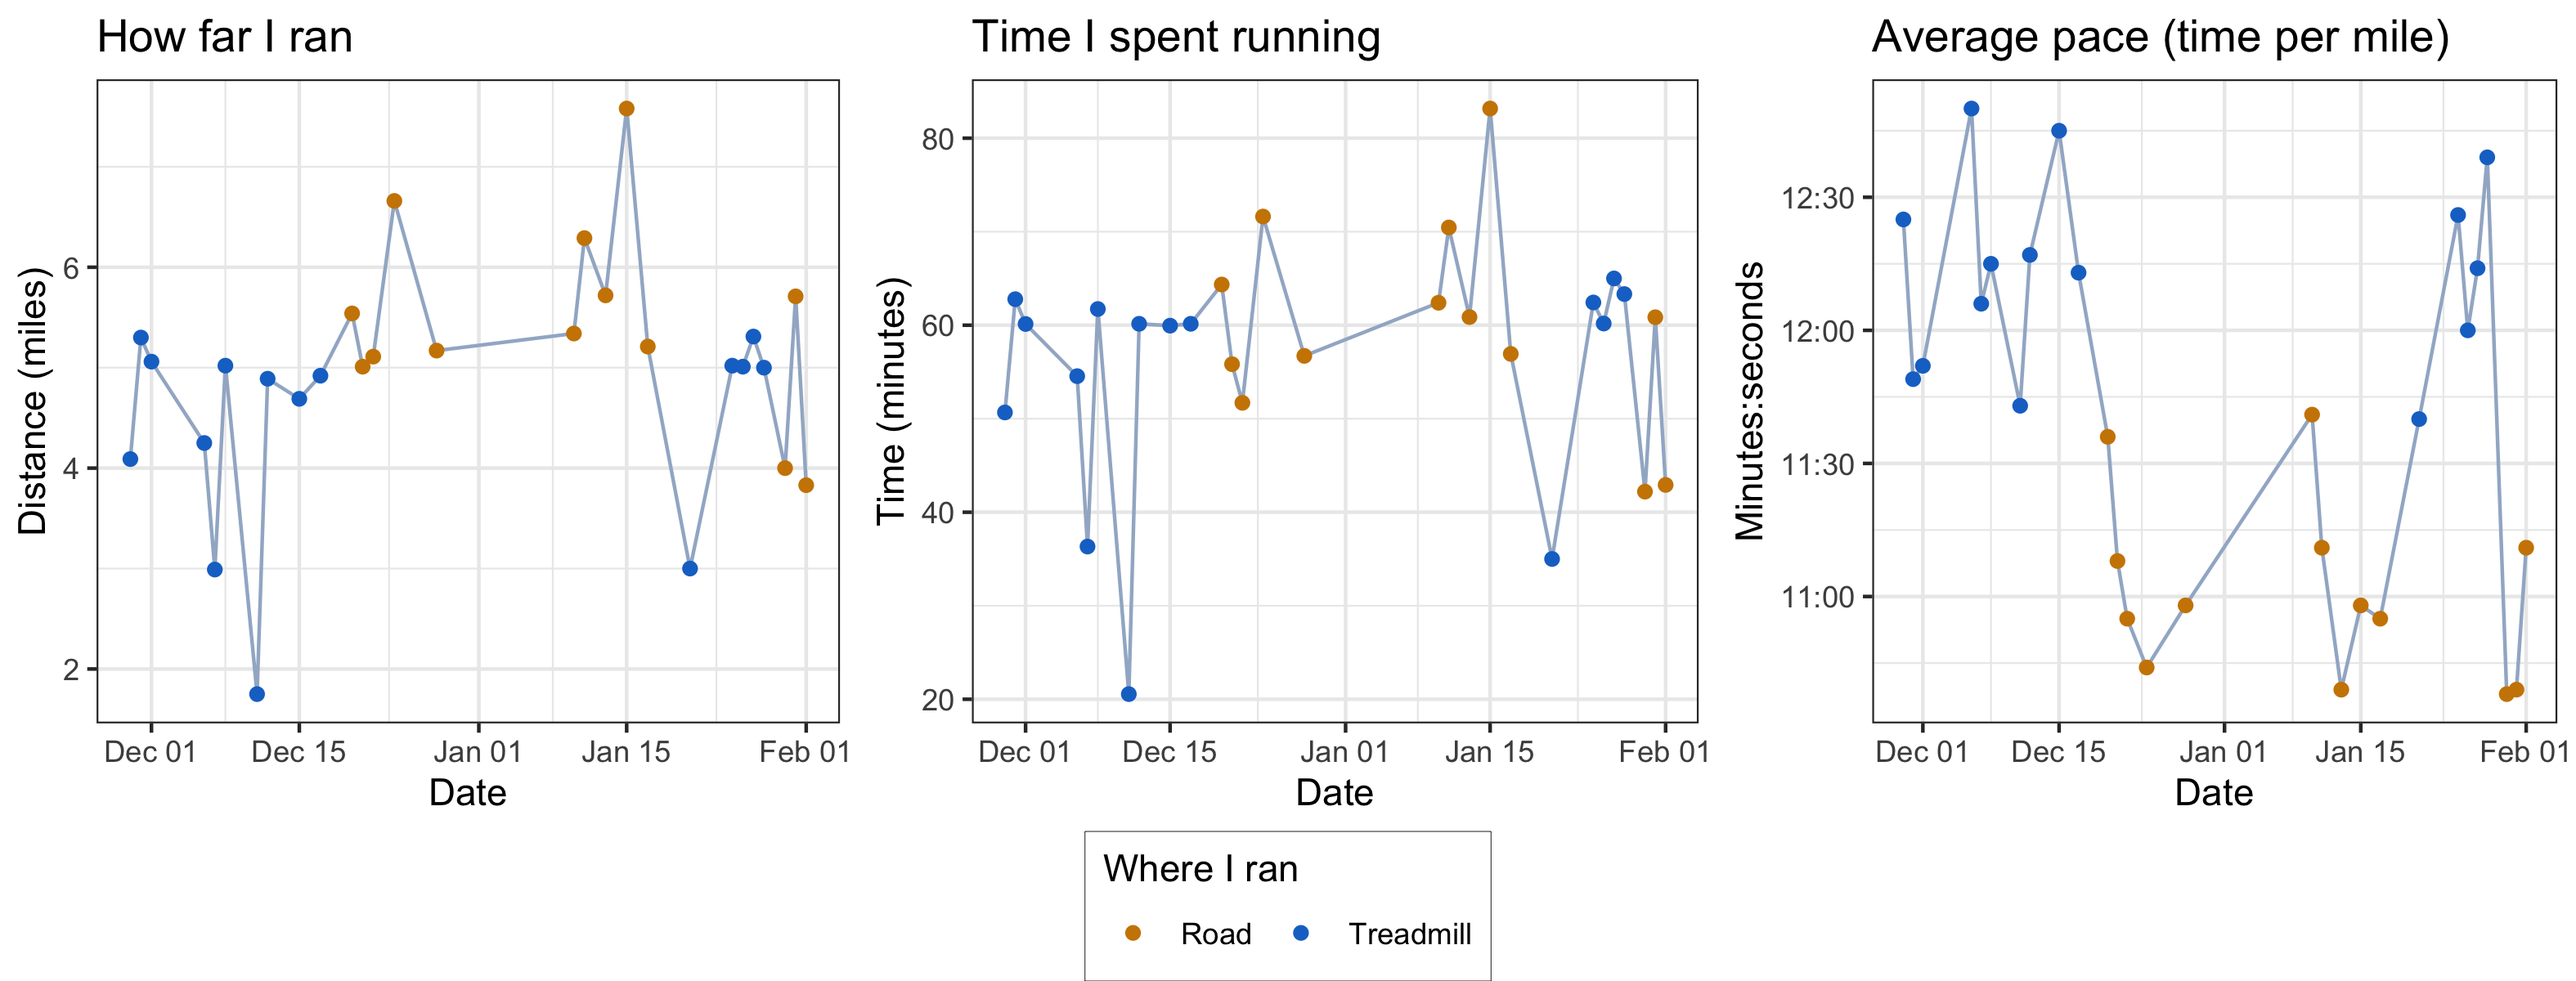
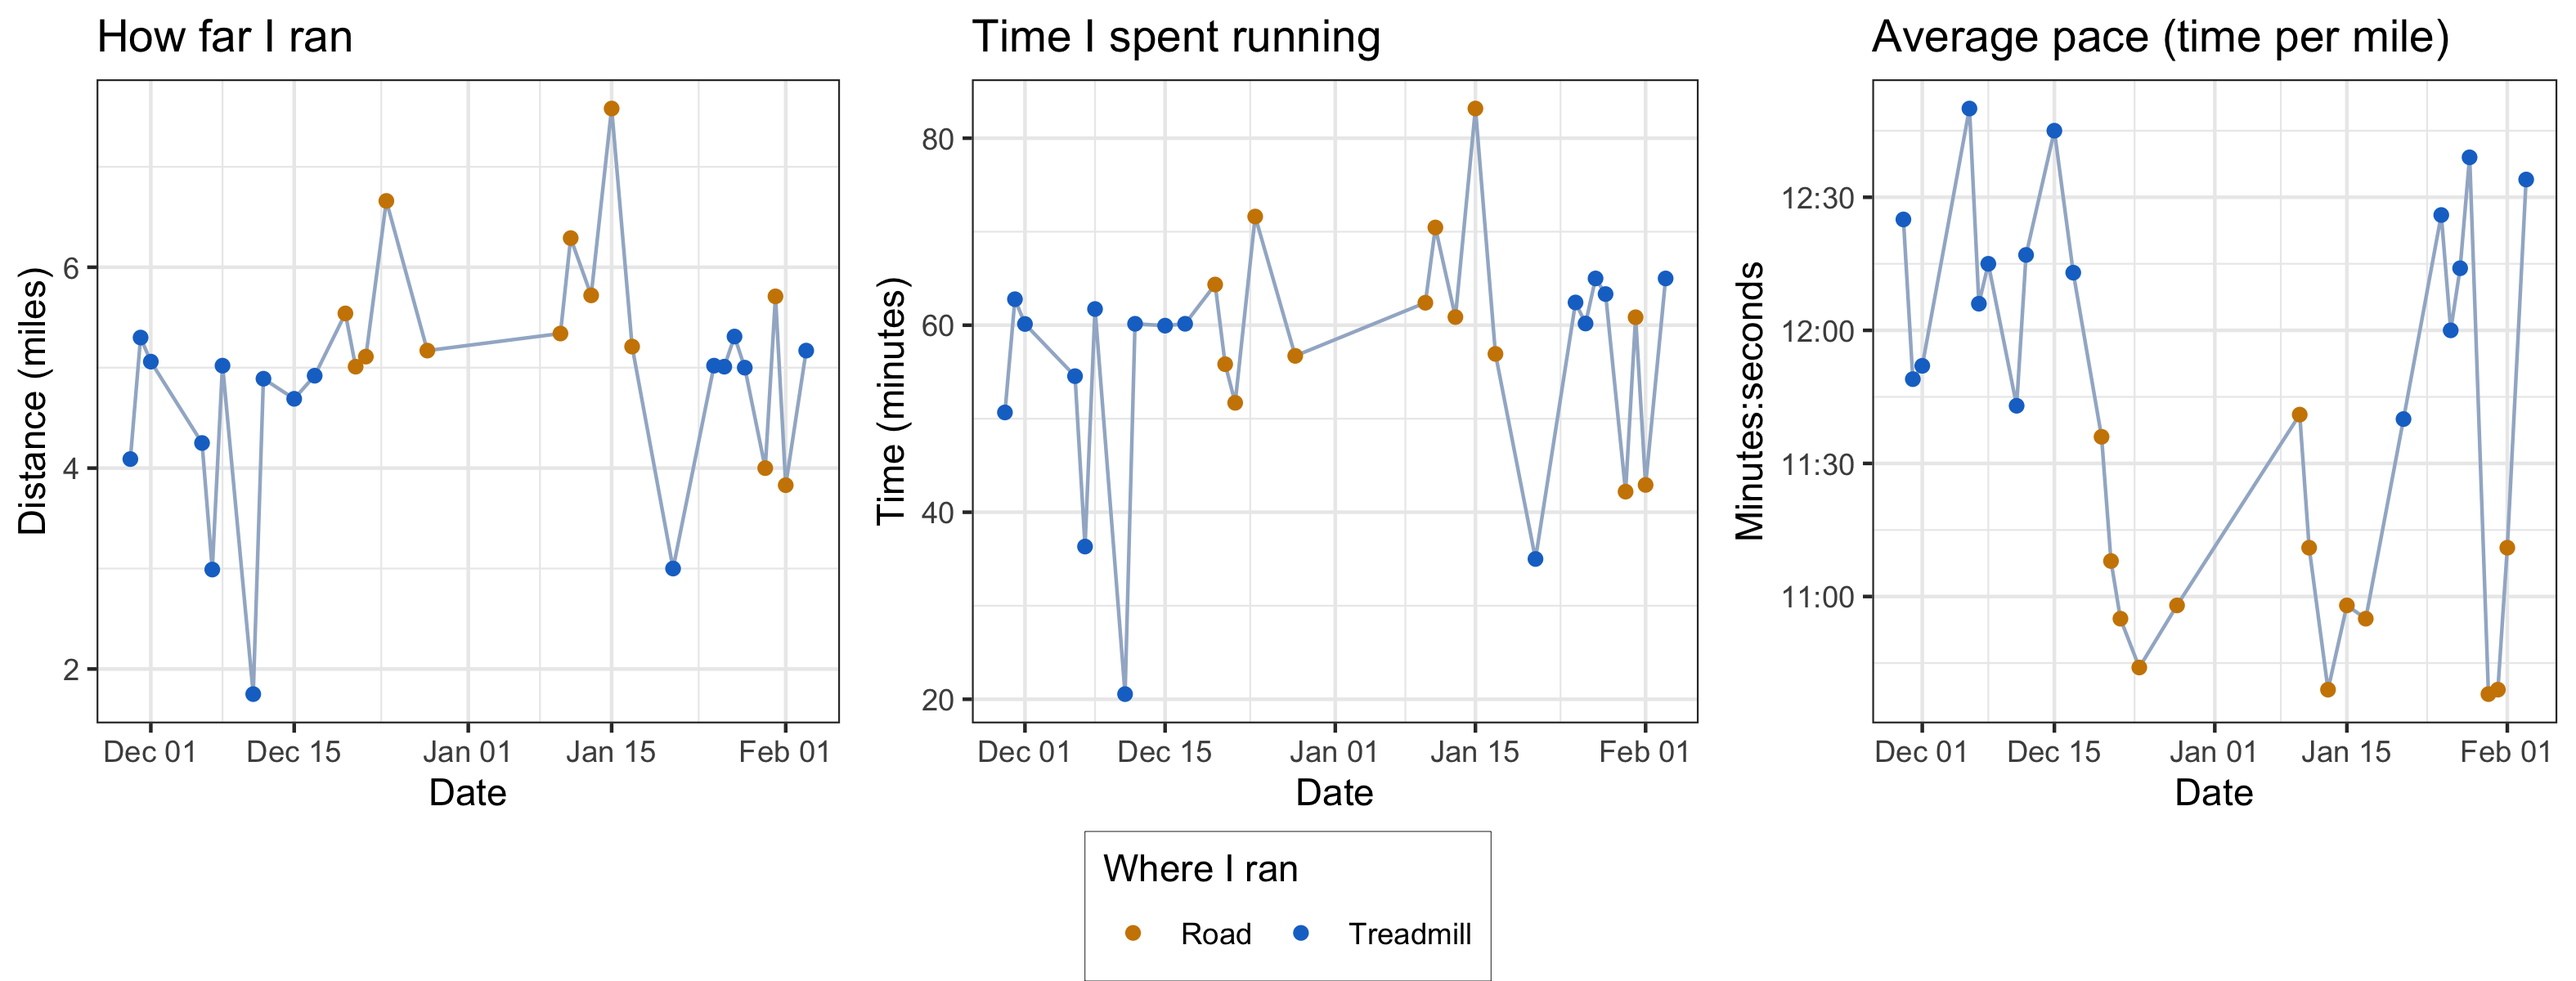
2/3/22

diff --git a/README.md b/README.md
@@ -27,4 +27,4 @@ Total miles since 11/29/21:
 sum(runningData$Miles)
 ```
 
-    ## [1] 137.47
+    ## [1] 142.64
